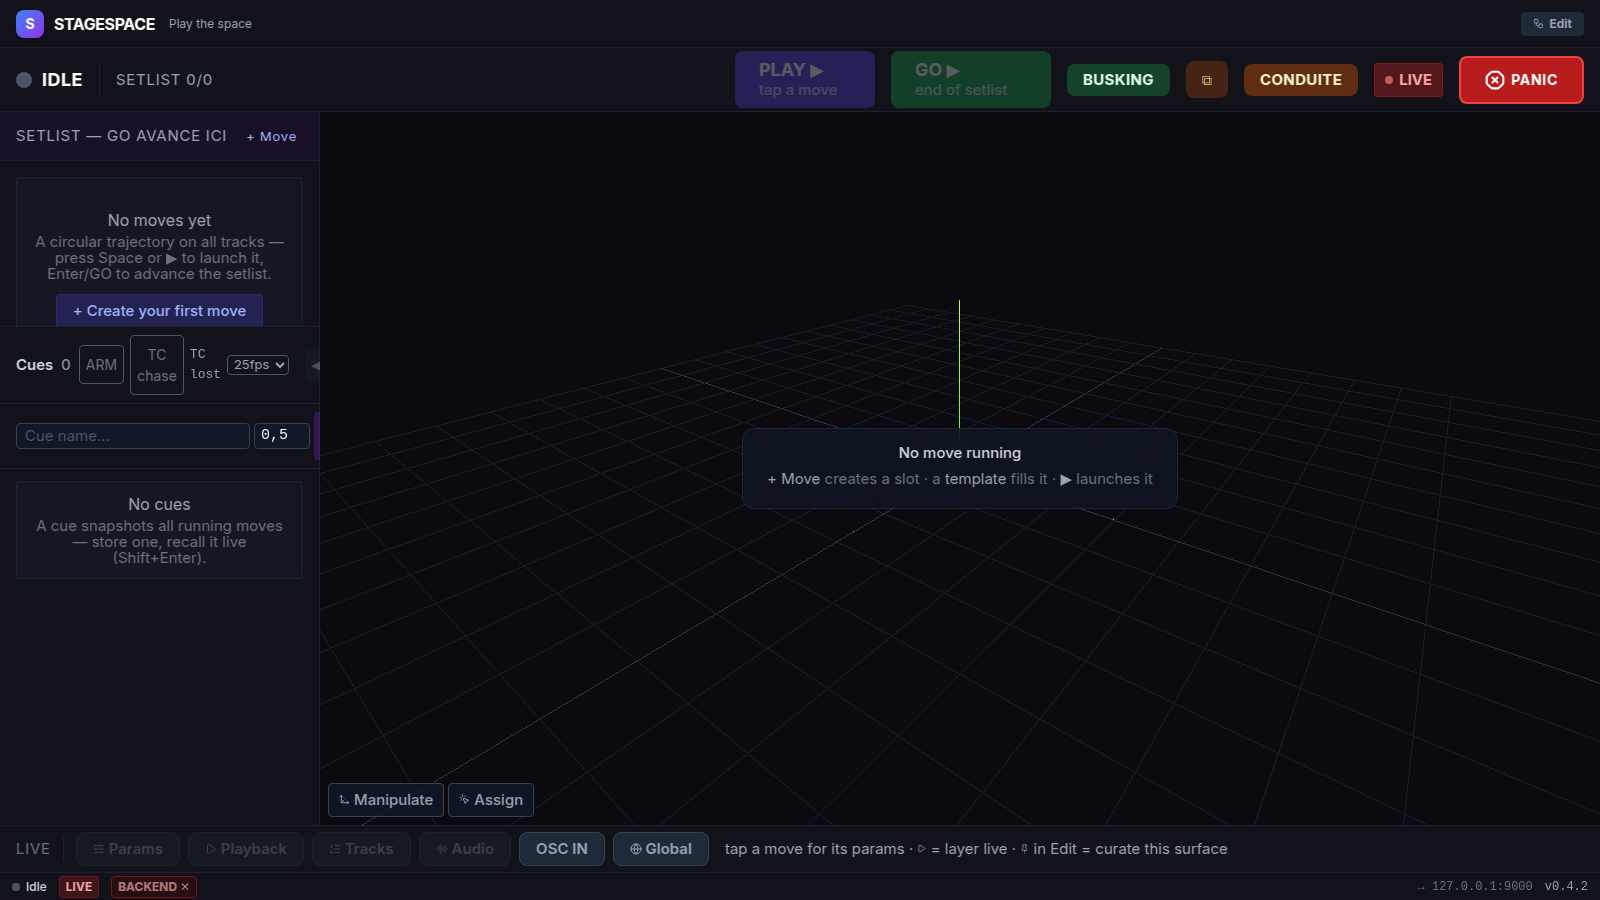
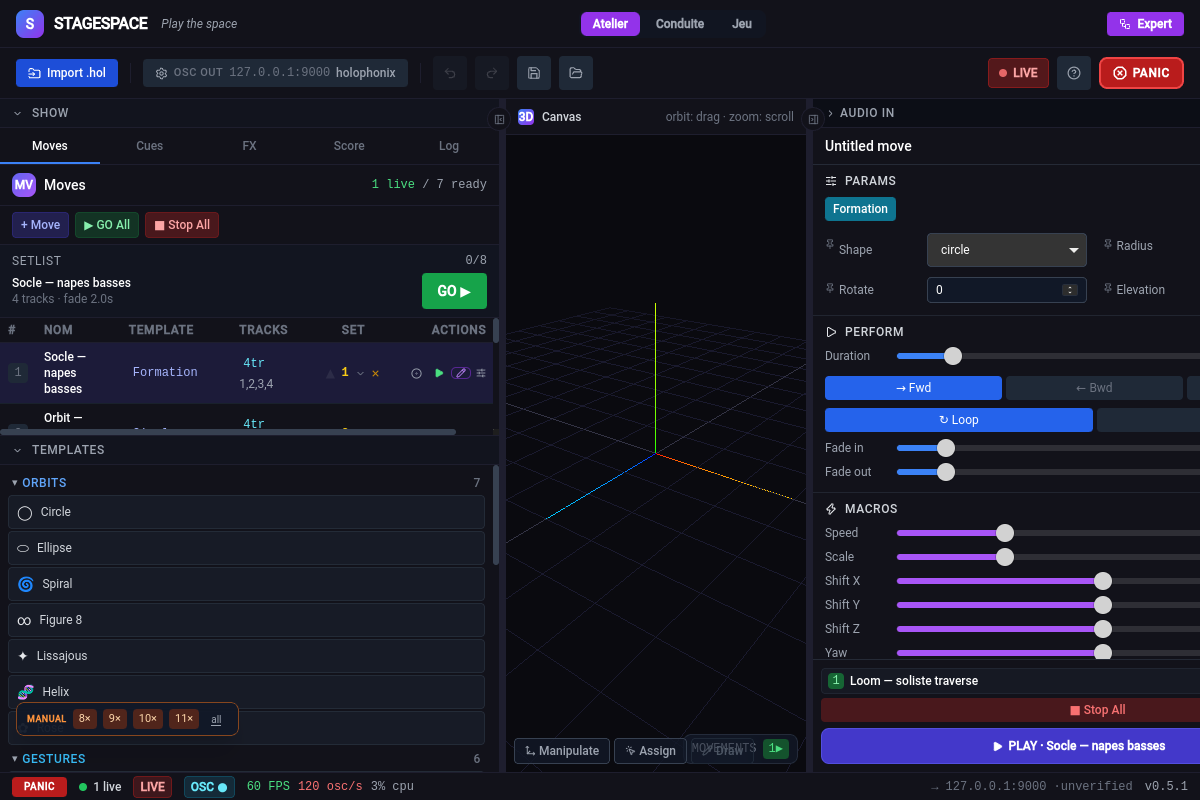
docs: purge captures browser-mode + atelier-edit réel

diff --git a/docs/user-manual.md b/docs/user-manual.md
@@ -45,7 +45,7 @@ conduite détachable**. Le mode **Edit** sert à la préparation.
 
 ### 2.1 Perform — la vue live de base
 
-![Perform](screenshots/02-perform.png)
+![Surface Jeu](screenshots/12-jeu.png)
 
 | Zone | Rôle |
 |------|------|
@@ -60,8 +60,6 @@ conduite détachable**. Le mode **Edit** sert à la préparation.
 - La cue list partage la colonne avec la setlist — click = **arm**, double-click
   = **recall** (jamais de recall en un clic).
 - **Cue** affichée dans la topbar : `Cue n → suivante armée`.
-
-![Perform — move armé](screenshots/06-perform-slot.png)
 
 ![Jeu — slot live + radar](screenshots/14-jeu-live-radar.png)
 
@@ -80,15 +78,13 @@ conduite détachable**. Le mode **Edit** sert à la préparation.
 
 ### 2.3 Créer un move
 
-![Move + Inspector](screenshots/04-move-inspector.png)
+![Move + Inspector](screenshots/03-edit.png)
 
 `+ Move` crée un slot — choisissez un **template** (gauche), assignez des
 **tracks** (grille numérotée), réglez les **params** et les **fades**
 (fade in/out du slot), puis `▶ PLAY · Move n`.
 
 ### 2.4 Expert — l'éditeur de graphe
-
-![Éditeur de nœuds](screenshots/05-node-editor.png)
 
 Le toggle **Expert/Simple** ouvre le node editor :
 
@@ -309,8 +305,6 @@ Brancher un fader externe — onglet *OSC IN* (PerformView) :
 - **Confirmations** : toute action destructive (delete slot/template, clear-all
   zones/modulations/channels, remove par-item) passe par une boîte de
   confirmation — fini les deletes en un clic.
-
-![Confirmation de suppression](screenshots/09-confirm-delete.png)
 
 - **Guards recall** : pendant un recall, les commandes slot/cue sont rejetées
   (`nack busy`) plutôt qu'intercalées — jamais de mouvement orphelin.
